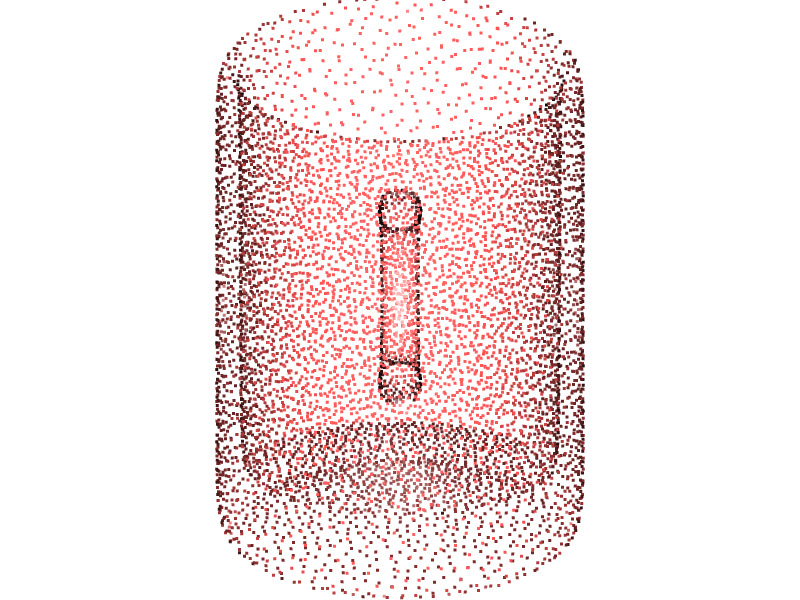
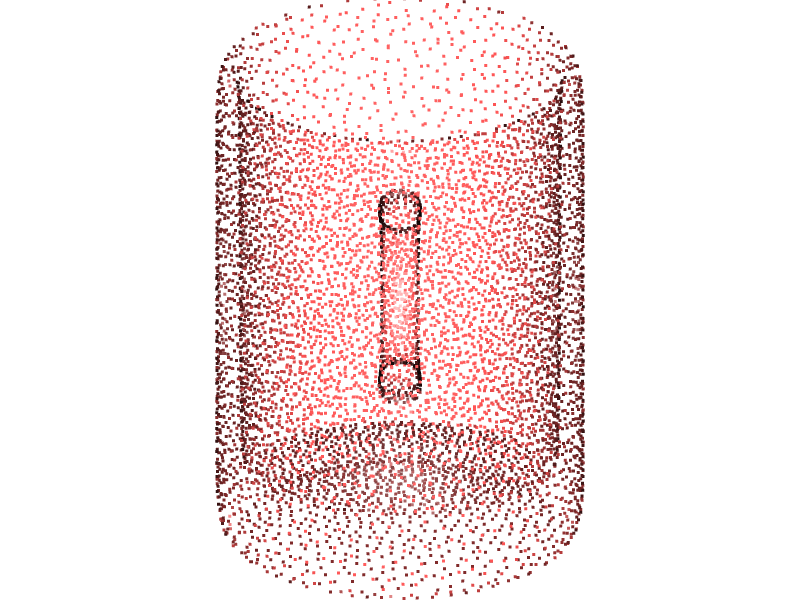
Add Assignment #5 - 3D Processing with Open3D

Changed region(s): [[0.25, 0.0, 0.75, 1.0]]

diff --git a/assignment5_cup.py b/assignment5_cup.py
@@ -4,58 +4,47 @@ import os
 import matplotlib.pyplot as plt
 
 def save_screenshot(vis, filename, description):
-    """Capture and save screenshot from Open3D visualizer"""
     os.makedirs("assignment5_screenshots", exist_ok=True)
     filepath = os.path.join("assignment5_screenshots", filename)
-    
-    # Capture the image
     image = vis.capture_screen_float_buffer()
     plt.imsave(filepath, np.asarray(image))
-    
     print(f"✓ Saved: {filename} | {description}")
 
 def custom_draw_geometry_with_screenshot(geometries, filename, description, width=800, height=600):
-    """Custom function to display geometry/geometries and save screenshot"""
     vis = o3d.visualization.Visualizer()
     vis.create_window(width=width, height=height, visible=False)
     
-    # Handle both single geometry and list of geometries
     if isinstance(geometries, list):
         for geometry in geometries:
             vis.add_geometry(geometry)
     else:
         vis.add_geometry(geometries)
     
-    # Set background color to white for better visibility
     opt = vis.get_render_option()
     opt.background_color = np.asarray([1, 1, 1])
     opt.point_size = 3.0
     
     vis.poll_events()
     vis.update_renderer()
-    
-    # Save screenshot
     save_screenshot(vis, filename, description)
-    
     vis.destroy_window()
 
 def assignment_5_cup_visible_cutting():
-    print("=" * 60)
-    print("ASSIGNMENT #5 - 3D CUP PROCESSING WITH OPEN3D (VISIBLE CUTTING)")
-    print("=" * 60)
-    
-    # Create screenshots directory
     os.makedirs("assignment5_screenshots", exist_ok=True)
     
-    # Step 1: Loading and Visualization
-    print("\n" + "=" * 40)
-    print("STEP 1: LOADING AND VISUALIZATION")
-    print("=" * 40)
+    if not os.path.exists("cup.obj"):
+        print("ERROR: cup.obj file not found!")
+        return
     
-    # Load the cup model
+    print("STEP 1: LOADING AND VISUALIZATION")
+    print("-" * 40)
+    
     mesh = o3d.io.read_triangle_mesh("cup.obj")
     
-    # Print original model information
+    if len(mesh.vertices) == 0:
+        print("ERROR: Failed to load mesh!")
+        return
+    
     print(f"Number of vertices: {len(mesh.vertices)}")
     print(f"Number of triangles: {len(mesh.triangles)}")
     print(f"Has vertex colors: {mesh.has_vertex_colors()}")
@@ -64,23 +53,18 @@ def assignment_5_cup_visible_cutting():
     if not mesh.has_vertex_normals():
         mesh.compute_vertex_normals()
     
-    # Get the cup's bounding box for proper positioning
     bbox = mesh.get_axis_aligned_bounding_box()
     bbox_center = bbox.get_center()
     bbox_min = bbox.get_min_bound()
     bbox_max = bbox.get_max_bound()
     
-    print(f"Cup bounding box center: {bbox_center}")
-    
-    # Display original model
     mesh.paint_uniform_color([0.3, 0.5, 0.9])
     custom_draw_geometry_with_screenshot(mesh, "step1_cup_original.png", "Step 1: Original Cup Model")
     o3d.visualization.draw_geometries([mesh], window_name="Step 1: Original Cup Model")
     
-    # Step 2: Conversion to Point Cloud
-    print("\n" + "=" * 40)
+    print("\n" + "-" * 40)
     print("STEP 2: CONVERSION TO POINT CLOUD")
-    print("=" * 40)
+    print("-" * 40)
     
     point_cloud = mesh.sample_points_poisson_disk(number_of_points=8000)
     print(f"Number of points: {len(point_cloud.points)}")
@@ -90,10 +74,9 @@ def assignment_5_cup_visible_cutting():
     custom_draw_geometry_with_screenshot(point_cloud, "step2_cup_point_cloud.png", "Step 2: Cup Point Cloud")
     o3d.visualization.draw_geometries([point_cloud], window_name="Step 2: Cup Point Cloud")
     
-    # Step 3: Surface Reconstruction
-    print("\n" + "=" * 40)
+    print("\n" + "-" * 40)
     print("STEP 3: SURFACE RECONSTRUCTION")
-    print("=" * 40)
+    print("-" * 40)
     
     point_cloud_for_reconstruction = point_cloud
     if not point_cloud_for_reconstruction.has_normals():
@@ -114,10 +97,9 @@ def assignment_5_cup_visible_cutting():
     custom_draw_geometry_with_screenshot(mesh_reconstructed, "step3_cup_reconstructed.png", "Step 3: Reconstructed Cup")
     o3d.visualization.draw_geometries([mesh_reconstructed], window_name="Step 3: Reconstructed Cup")
     
-    # Step 4: Voxelization
-    print("\n" + "=" * 40)
+    print("\n" + "-" * 40)
     print("STEP 4: VOXELIZATION")
-    print("=" * 40)
+    print("-" * 40)
     
     voxel_size = 0.1
     voxel_grid = o3d.geometry.VoxelGrid.create_from_point_cloud(point_cloud, voxel_size=voxel_size)
@@ -129,36 +111,27 @@ def assignment_5_cup_visible_cutting():
     custom_draw_geometry_with_screenshot(voxel_grid, "step4_cup_voxels.png", "Step 4: Cup Voxel Grid")
     o3d.visualization.draw_geometries([voxel_grid], window_name="Step 4: Cup Voxel Grid")
     
-    # Step 5: Adding a Plane - WITH VISIBLE CUTTING PLANE
-    print("\n" + "=" * 40)
-    print("STEP 5: ADDING A PLANE (VISIBLE CUTTING)")
-    print("=" * 40)
+    print("\n" + "-" * 40)
+    print("STEP 5: ADDING A PLANE")
+    print("-" * 40)
     
-    # Calculate proper positions based on cup dimensions
     cup_height = bbox_max[1] - bbox_min[1]
     cup_width = bbox_max[0] - bbox_min[0]
     cup_depth = bbox_max[2] - bbox_min[2]
     
-    # Create a table plane that fits under the cup
     table_width = cup_width * 2.5
     table_depth = cup_depth * 2.5
     
     plane = o3d.geometry.TriangleMesh.create_box(width=table_width, height=0.02, depth=table_depth)
-    
-    # Position table directly under the cup
     table_x = bbox_center[0] - table_width/2
     table_y = bbox_min[1] - 0.1
     table_z = bbox_center[2] - table_depth/2
-    
     plane.translate([table_x, table_y, table_z])
     plane.paint_uniform_color([0.7, 0.7, 0.7])
     
-    # Create a HIGHLY VISIBLE cutting plane
-    cutting_plane_height = cup_height * 1.5  # Make it taller
-    cutting_plane_depth = cup_depth * 1.5    # Make it deeper
-    
-    # MAKE THE CUTTING PLANE THICKER for better visibility
-    cutting_plane_width = 0.1  # Increased from 0.02 to 0.1 (5x thicker!)
+    cutting_plane_height = cup_height * 1.5
+    cutting_plane_depth = cup_depth * 1.5
+    cutting_plane_width = 0.1
     
     cutting_plane = o3d.geometry.TriangleMesh.create_box(
         width=cutting_plane_width, 
@@ -166,62 +139,49 @@ def assignment_5_cup_visible_cutting():
         depth=cutting_plane_depth
     )
     
-    # Position cutting plane to slice through the middle of the cup
-    cutting_x = bbox_center[0] - cutting_plane_width/2  # Center the thicker plane
-    cutting_y = bbox_min[1] - 0.2  # Start lower for better visibility
+    cutting_x = bbox_center[0] - cutting_plane_width/2
+    cutting_y = bbox_min[1] - 0.2
     cutting_z = bbox_center[2] - cutting_plane_depth/2
-    
     cutting_plane.translate([cutting_x, cutting_y, cutting_z])
+    cutting_plane.paint_uniform_color([1.0, 0.6, 0.0])
     
-    # Use BRIGHTER COLOR for better visibility
-    cutting_plane.paint_uniform_color([1.0, 0.6, 0.0])  # Bright orange instead of yellow
-    
-    # Also create a thin red line to show the exact cutting position
     cutting_line = o3d.geometry.TriangleMesh.create_box(width=0.005, height=cup_height * 1.6, depth=0.005)
     cutting_line.translate([bbox_center[0] - 0.0025, bbox_min[1] - 0.3, bbox_center[2] - 0.0025])
-    cutting_line.paint_uniform_color([1.0, 0.0, 0.0])  # Bright red
+    cutting_line.paint_uniform_color([1.0, 0.0, 0.0])
     
-    # Display cup with properly positioned and HIGHLY VISIBLE planes
     cup_for_display = mesh
     cup_for_display.paint_uniform_color([0.3, 0.5, 0.9])
     
-    # Show both the thick cutting plane and thin cutting line
     combined_geometries = [cup_for_display, plane, cutting_plane, cutting_line]
     custom_draw_geometry_with_screenshot(combined_geometries, "step5_cup_with_planes.png", "Step 5: Cup with Planes")
-    
-    # Also show interactively
-    print("Showing interactive window for Step 5...")
     o3d.visualization.draw_geometries([cup_for_display, plane, cutting_plane, cutting_line], 
-                                    window_name="Step 5: Cup with HIGHLY VISIBLE Cutting Plane",
+                                    window_name="Step 5: Cup with Cutting Plane",
                                     width=800, height=600)
     
-    # Step 6: Surface Clipping
-    print("\n" + "=" * 40)
+    print("\n" + "-" * 40)
     print("STEP 6: SURFACE CLIPPING")
-    print("=" * 40)
+    print("-" * 40)
     
-    points = np.asarray(mesh.vertices)
-    
-    # Clip points using the same position as the red cutting line
-    clipping_threshold = bbox_center[0]
+    # FIXED: Clip the point cloud, not the mesh vertices
+    points = np.asarray(point_cloud.points)
+    clipping_threshold = cutting_x + cutting_plane_width/2
     clipped_indices = points[:, 0] < clipping_threshold
     clipped_points = points[clipped_indices]
     
     clipped_pcd = o3d.geometry.PointCloud()
     clipped_pcd.points = o3d.utility.Vector3dVector(clipped_points)
     
-    print(f"Original number of vertices: {len(points)}")
-    print(f"Remaining vertices after clipping: {len(clipped_points)}")
+    print(f"Original number of points: {len(points)}")
+    print(f"Remaining points after clipping: {len(clipped_points)}")
     print(f"Percentage removed: {(1 - len(clipped_points)/len(points))*100:.1f}%")
     
     clipped_pcd.paint_uniform_color([0.8, 0.2, 0.2])
     custom_draw_geometry_with_screenshot(clipped_pcd, "step6_cup_clipped.png", "Step 6: Clipped Cup")
     o3d.visualization.draw_geometries([clipped_pcd], window_name="Step 6: Clipped Cup")
     
-    # Step 7: Working with Color and Extremes
-    print("\n" + "=" * 40)
+    print("\n" + "-" * 40)
     print("STEP 7: COLOR GRADIENT AND EXTREME POINTS")
-    print("=" * 40)
+    print("-" * 40)
     
     colored_pcd = o3d.geometry.PointCloud()
     colored_pcd.points = point_cloud.points
@@ -256,13 +216,6 @@ def assignment_5_cup_visible_cutting():
     final_geometries = [colored_pcd, min_sphere, max_sphere]
     custom_draw_geometry_with_screenshot(final_geometries, "step7_cup_gradient_extremes.png", "Step 7: Cup with Gradient and Extreme Points")
     o3d.visualization.draw_geometries([colored_pcd, min_sphere, max_sphere], window_name="Step 7: Cup with Gradient and Extreme Points")
-    
-    # Final summary
-    print("\n" + "=" * 60)
-    print("ASSIGNMENT COMPLETED SUCCESSFULLY!")
-    print("=" * 60)
-    print("All 7 steps completed with HIGHLY VISIBLE cutting plane!")
-    print(f"Screenshots saved in: {os.path.abspath('assignment5_screenshots')}")
 
 if __name__ == "__main__":
     assignment_5_cup_visible_cutting()
